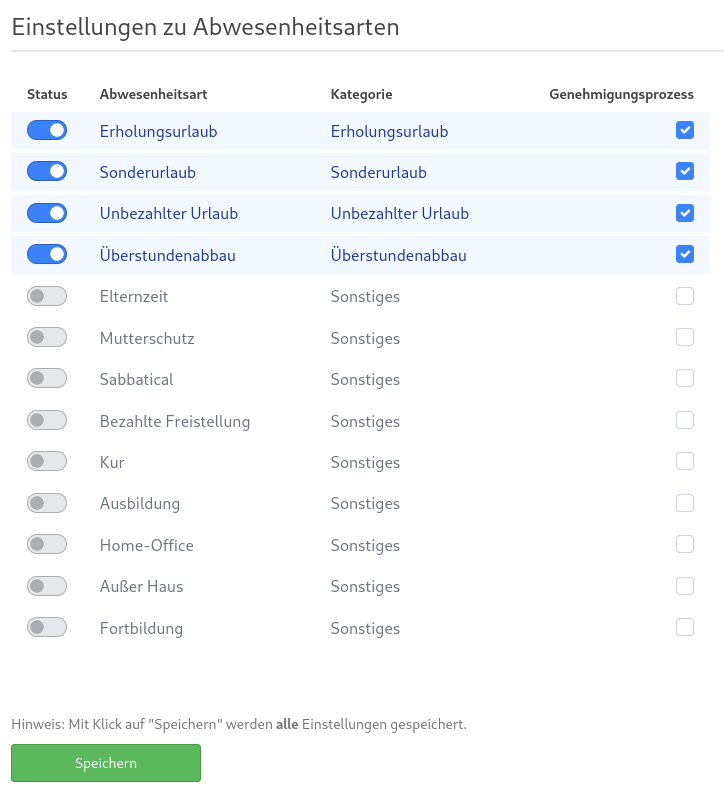
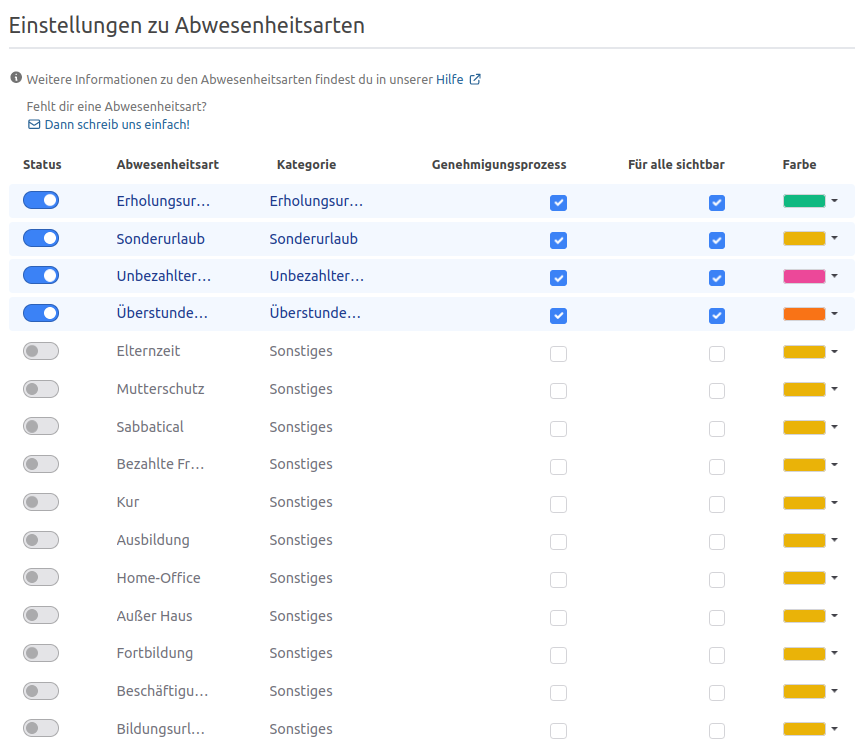
Improve hilfe > abwesenheiten

diff --git a/src/hilfe/abwesenheiten/abwesenheiten.md b/src/hilfe/abwesenheiten/abwesenheiten.md
@@ -14,16 +14,16 @@ Außerdem gibt in der Urlaubsverwaltung auch einen [zweistufigen Genehmigungspro
 
 ## Wer wird informiert, wenn ein Abwesenheitsantrag gestellt wurde?
 
-Wenn ein Abwesenheitsantrag gestellt wurde, erhalten sowohl Abteilungsleiter des
-Mitarbeiters als auch globale Chefs eine E-Mail-Benachrichtigung.
+Wenn ein Abwesenheitsantrag gestellt wurde, erhält der betroffene Mitarbeitende sowie alle Personen, die ein Interesse an dieser Information
+haben, wie der Abteilungsleiter und Freigabe-Verantwortlicher des Mitarbeitenden als auch globale Chefs eine E-Mail-Benachrichtigung.
 
-Vorausgesetzt bei diesen Personen ist die entsprechende E-Mail-Benachrichtigung
-aktiviert.
+Vorausgesetzt bei diesen Personen ist die entsprechende E-Mail-Benachrichtigung aktiviert.
 
 ## Wer wird informiert, wenn ein Abwesenheitsantrag genehmigt wurde?
 
-Wenn ein Abwesenheitsantrag genehmigt wurde, erhalten sowohl der betroffene
-Mitarbeiter als auch die Office-Benutzer eine E-Mail-Benachrichtigung.
+Wenn ein Abwesenheitsantrag genehmigt wurde, erhalten sowohl der betroffene Mitarbeitende, sowie alle Personen die ein Interesse an dieser Information
+haben, wie der Abteilungsleiter und Freigabe-Verantwortlicher des Mitarbeitenden als auch die Office-Mitarbeitenden eine E-Mail-Benachrichtigung.
+
 Vorausgesetzt beim Office-Benutzer ist die entsprechende E-Mail-Benachrichtigung aktiviert.
 
 ## Wer wird informiert, wenn ein Abwesenheitsantrag abgelehnt wurde?
@@ -113,8 +113,8 @@ Ja, es ist möglich weitere Abwesenheitsarten zu konfigurieren. Diese können in
       alt="Konfiguration von Abwesenheitsarten"
       decoding="async"
       loading="lazy"
-      width="724"
-      height="797"
+      width="859"
+      height="754"
     />
   </picture>
 </p>
@@ -125,9 +125,22 @@ Ja, du kannst pro Abwesenheitsart festlegen, ob eine Genehmigung notwendig ist, 
 
 Bitte beachte zusätzlich, dass der für die Abteilung aktive Genehmigungsprozess verwendet wird.
 
+## Ist es möglich für alle Anträge einer bestimmten Abwesenheitsart diese für alle Mitarbeitenden ohne Informationsverlust darzustellen? 
+
+Ja, du kannst pro Abwesenheitsart festlegen, ob diese für alle Mitarbeitenden sichtbar ist und ohne Informationsverlust dargestellt wird.  
+Was bedeutet das?
+Wenn bei einer Abwesenheitsart die Checkbox "sichtbar" deaktiviert ist, werden die Informationen dieser Anträge lediglich
+für die Mitarbeitenden dargestellt, welche ein berechtigtes Interesse an der Information haben, dass es sich z.B. um einen Erholungsurlaub handelt.
+Ist die Checkbox aktiviert, erhalten alle Mitarbeitenden, welche die Anträge der Person sehen können, die Information über die Abwesenheitsart.
+
+## Ist es möglich die Anzeigefarbe einer Abwesenheitsart anzupassen?
+
+Ja, du kannst bei den Einstellungen zu Abwesenheitsarten die Farbe pro Abwesenheitsart konfigurieren. Diese Farbe wird dann
+in allen Kalendern und in der Abwesenheitsübersicht verwendet.
+
 ## Wie kann ich die Art der Abwesenheit bei einem Antrag bearbeiten?
 
-Die Art der Abwesenheit kann noch angepasst werden solange der Antrag noch nicht genehmigt wurde. Das Bearbeiten kann durch den Mitarbeiter selbst durchgeführt werden.
+Die Art der Abwesenheit kann noch angepasst werden, solange der Antrag noch nicht genehmigt wurde. Das Bearbeiten kann durch den Mitarbeiter selbst durchgeführt werden.
 
 <p>
   <picture>
@@ -148,7 +161,7 @@ Um einen bereits genehmigten Antrag zu editieren, muss der bisherige Antrag stor
 
 ## Wie funktioniert der Übergang zwischen zwei Jahren?
 
-Der Erholungsurlaub der im bisherigen Jahr noch nicht genommen wurde wird in das folgende Jahr übernommen. Diese Übernahme passiert in den Standard-Einstellungen am 1.1. des Folgejahres um 05:00 Uhr.
+Der Erholungsurlaub, welcher im bisherigen Jahr noch nicht genommen wurde, wird in das folgende Jahr übernommen. Diese Übernahme passiert in den Standard-Einstellungen am 1.1. des Folgejahres um 05:00 Uhr.
 Der übernommene Resturlaub beinhaltet alle bis zum 31.12. nicht genommenen Urlaubstage. Dieser Resturlaub kann dann bis zum Ende des Monats März genommen werden.
 
 ## Workflow bei Abwesenheitsanträgen
